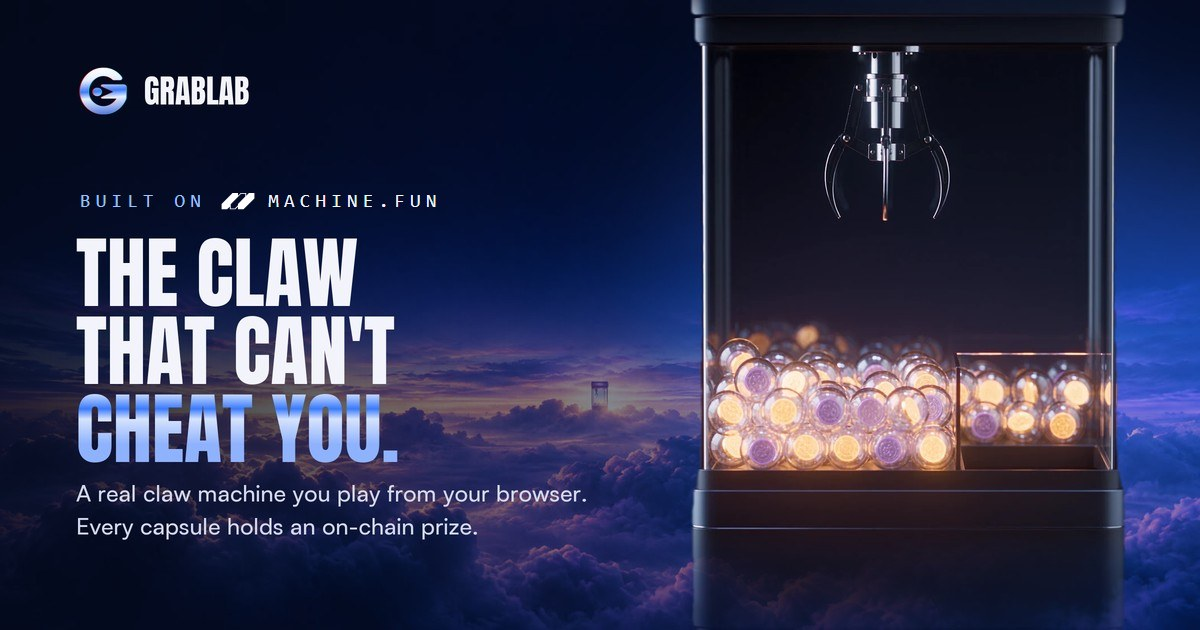
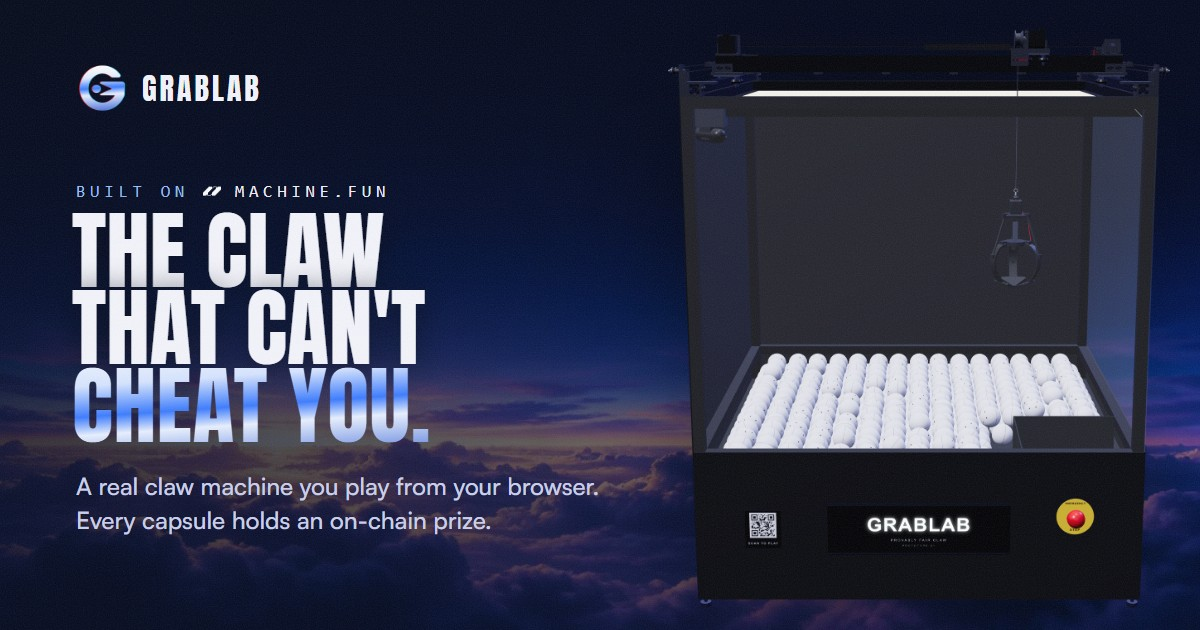
Share image: the real metal machine

diff --git a/index.html b/index.html
@@ -10,14 +10,14 @@
 <meta property="og:title" content="Grablab: the claw that can't cheat you" />
 <meta property="og:description" content="A real claw machine, played from the browser, where every capsule holds an on-chain prize and every play is proven fair on Solana. Rent the claw, load your airdrop, let people grab it live." />
 <meta property="og:url" content="https://grablab.fun/" />
-<meta property="og:image" content="https://grablab.fun/assets/og-share.jpg?v=3" />
+<meta property="og:image" content="https://grablab.fun/assets/og-share.jpg?v=4" />
 <meta property="og:image:width" content="1200" />
 <meta property="og:image:height" content="630" />
 <meta property="og:image:alt" content="Grablab, the claw that can't cheat you: a real claw machine played from the browser" />
 <meta name="twitter:card" content="summary_large_image" />
 <meta name="twitter:title" content="Grablab: the claw that can't cheat you" />
 <meta name="twitter:description" content="A real claw machine, played from the browser, where every capsule holds an on-chain prize and every play is proven fair on Solana. Rent the claw, load your airdrop, let people grab it live." />
-<meta name="twitter:image" content="https://grablab.fun/assets/og-share.jpg?v=3" />
+<meta name="twitter:image" content="https://grablab.fun/assets/og-share.jpg?v=4" />
 <link rel="icon" type="image/png" href="assets/brand/mark-chrome-256.png?v=fav2" />
 <link rel="apple-touch-icon" href="assets/brand/favicon-180.png" />
 <link rel="preload" href="assets/fonts/anton-400-latin.woff2" as="font" type="font/woff2" crossorigin />

diff --git a/provably-fair.html b/provably-fair.html
@@ -10,14 +10,14 @@
 <meta property="og:title" content="Provably fair, Grablab" />
 <meta property="og:description" content="Every Grablab play leaves a receipt on Solana: inventory, grip, signature, drop and payout. Check any play yourself." />
 <meta property="og:url" content="https://grablab.fun/provably-fair" />
-<meta property="og:image" content="https://grablab.fun/assets/og-share.jpg?v=3" />
+<meta property="og:image" content="https://grablab.fun/assets/og-share.jpg?v=4" />
 <meta property="og:image:width" content="1200" />
 <meta property="og:image:height" content="630" />
 <meta property="og:image:alt" content="Grablab, the claw that can't cheat you: a real claw machine played from the browser" />
 <meta name="twitter:card" content="summary_large_image" />
 <meta name="twitter:title" content="Provably fair, Grablab" />
 <meta name="twitter:description" content="Every Grablab play leaves a receipt on Solana: inventory, grip, signature, drop and payout. Check any play yourself." />
-<meta name="twitter:image" content="https://grablab.fun/assets/og-share.jpg?v=3" />
+<meta name="twitter:image" content="https://grablab.fun/assets/og-share.jpg?v=4" />
 <link rel="icon" type="image/png" href="assets/brand/mark-chrome-256.png?v=fav2" />
 <link rel="apple-touch-icon" href="assets/brand/favicon-180.png" />
 <link rel="preload" href="assets/fonts/anton-400-latin.woff2" as="font" type="font/woff2" crossorigin />

diff --git a/lab.html b/lab.html
@@ -10,14 +10,14 @@
 <meta property="og:title" content="Physics lab, Grablab" />
 <meta property="og:description" content="Our claw machine rebuilt in MuJoCo physics. Drive it in SimArena: move, lower, squeeze at 70%, drop it in the chute." />
 <meta property="og:url" content="https://grablab.fun/lab" />
-<meta property="og:image" content="https://grablab.fun/assets/og-share.jpg?v=3" />
+<meta property="og:image" content="https://grablab.fun/assets/og-share.jpg?v=4" />
 <meta property="og:image:width" content="1200" />
 <meta property="og:image:height" content="630" />
 <meta property="og:image:alt" content="Grablab, the claw that can't cheat you: a real claw machine played from the browser" />
 <meta name="twitter:card" content="summary_large_image" />
 <meta name="twitter:title" content="Physics lab, Grablab" />
 <meta name="twitter:description" content="Our claw machine rebuilt in MuJoCo physics. Drive it in SimArena: move, lower, squeeze at 70%, drop it in the chute." />
-<meta name="twitter:image" content="https://grablab.fun/assets/og-share.jpg?v=3" />
+<meta name="twitter:image" content="https://grablab.fun/assets/og-share.jpg?v=4" />
 <link rel="icon" type="image/png" href="assets/brand/mark-chrome-256.png?v=fav2" />
 <link rel="apple-touch-icon" href="assets/brand/favicon-180.png" />
 <link rel="preload" href="assets/fonts/anton-400-latin.woff2" as="font" type="font/woff2" crossorigin />

diff --git a/rent.html b/rent.html
@@ -10,14 +10,14 @@
 <meta property="og:title" content="Rent the claw, Grablab" />
 <meta property="og:description" content="Load your airdrop into capsules and let people grab it live on stream. Provably fair, settled on Solana." />
 <meta property="og:url" content="https://grablab.fun/rent" />
-<meta property="og:image" content="https://grablab.fun/assets/og-share.jpg?v=3" />
+<meta property="og:image" content="https://grablab.fun/assets/og-share.jpg?v=4" />
 <meta property="og:image:width" content="1200" />
 <meta property="og:image:height" content="630" />
 <meta property="og:image:alt" content="Grablab, the claw that can't cheat you: a real claw machine played from the browser" />
 <meta name="twitter:card" content="summary_large_image" />
 <meta name="twitter:title" content="Rent the claw, Grablab" />
 <meta name="twitter:description" content="Load your airdrop into capsules and let people grab it live on stream. Provably fair, settled on Solana." />
-<meta name="twitter:image" content="https://grablab.fun/assets/og-share.jpg?v=3" />
+<meta name="twitter:image" content="https://grablab.fun/assets/og-share.jpg?v=4" />
 <link rel="icon" type="image/png" href="assets/brand/mark-chrome-256.png?v=fav2" />
 <link rel="apple-touch-icon" href="assets/brand/favicon-180.png" />
 <link rel="preload" href="assets/fonts/anton-400-latin.woff2" as="font" type="font/woff2" crossorigin />

diff --git a/privacy.html b/privacy.html
@@ -10,14 +10,14 @@
 <meta property="og:title" content="Privacy policy, Grablab" />
 <meta property="og:description" content="What data grablab.fun handles, why, who else sees it, and your rights under the GDPR." />
 <meta property="og:url" content="https://grablab.fun/privacy" />
-<meta property="og:image" content="https://grablab.fun/assets/og-share.jpg?v=3" />
+<meta property="og:image" content="https://grablab.fun/assets/og-share.jpg?v=4" />
 <meta property="og:image:width" content="1200" />
 <meta property="og:image:height" content="630" />
 <meta property="og:image:alt" content="Grablab, the claw that can't cheat you: a real claw machine played from the browser" />
 <meta name="twitter:card" content="summary_large_image" />
 <meta name="twitter:title" content="Privacy policy, Grablab" />
 <meta name="twitter:description" content="What data grablab.fun handles, why, who else sees it, and your rights under the GDPR." />
-<meta name="twitter:image" content="https://grablab.fun/assets/og-share.jpg?v=3" />
+<meta name="twitter:image" content="https://grablab.fun/assets/og-share.jpg?v=4" />
 <link rel="icon" type="image/png" href="assets/brand/mark-chrome-256.png?v=fav2" />
 <link rel="apple-touch-icon" href="assets/brand/favicon-180.png" />
 <link rel="preload" href="assets/fonts/anton-400-latin.woff2" as="font" type="font/woff2" crossorigin />

diff --git a/terms.html b/terms.html
@@ -10,14 +10,14 @@
 <meta property="og:title" content="Terms of use, Grablab" />
 <meta property="og:description" content="The rules for using grablab.fun, the simulator and, once live, the Grablab claw machine." />
 <meta property="og:url" content="https://grablab.fun/terms" />
-<meta property="og:image" content="https://grablab.fun/assets/og-share.jpg?v=3" />
+<meta property="og:image" content="https://grablab.fun/assets/og-share.jpg?v=4" />
 <meta property="og:image:width" content="1200" />
 <meta property="og:image:height" content="630" />
 <meta property="og:image:alt" content="Grablab, the claw that can't cheat you: a real claw machine played from the browser" />
 <meta name="twitter:card" content="summary_large_image" />
 <meta name="twitter:title" content="Terms of use, Grablab" />
 <meta name="twitter:description" content="The rules for using grablab.fun, the simulator and, once live, the Grablab claw machine." />
-<meta name="twitter:image" content="https://grablab.fun/assets/og-share.jpg?v=3" />
+<meta name="twitter:image" content="https://grablab.fun/assets/og-share.jpg?v=4" />
 <link rel="icon" type="image/png" href="assets/brand/mark-chrome-256.png?v=fav2" />
 <link rel="apple-touch-icon" href="assets/brand/favicon-180.png" />
 <link rel="preload" href="assets/fonts/anton-400-latin.woff2" as="font" type="font/woff2" crossorigin />

diff --git a/anatomy.html b/anatomy.html
@@ -10,14 +10,14 @@
 <meta property="og:title" content="Anatomy, Grablab" />
 <meta property="og:description" content="Prototype 01, part by part. Every part of the honest claw machine, from the frame to the chip that signs each play." />
 <meta property="og:url" content="https://grablab.fun/anatomy" />
-<meta property="og:image" content="https://grablab.fun/assets/og-share.jpg?v=3" />
+<meta property="og:image" content="https://grablab.fun/assets/og-share.jpg?v=4" />
 <meta property="og:image:width" content="1200" />
 <meta property="og:image:height" content="630" />
 <meta property="og:image:alt" content="Grablab Prototype 01, part by part" />
 <meta name="twitter:card" content="summary_large_image" />
 <meta name="twitter:title" content="Anatomy, Grablab" />
 <meta name="twitter:description" content="Prototype 01, part by part. Every part of the honest claw machine, from the frame to the chip that signs each play." />
-<meta name="twitter:image" content="https://grablab.fun/assets/og-share.jpg?v=3" />
+<meta name="twitter:image" content="https://grablab.fun/assets/og-share.jpg?v=4" />
 <link rel="icon" type="image/png" href="assets/brand/mark-chrome-256.png?v=fav2" />
 <link rel="apple-touch-icon" href="assets/brand/favicon-180.png" />
 <link rel="preload" href="assets/fonts/anton-400-latin.woff2" as="font" type="font/woff2" crossorigin />

diff --git a/participate.html b/participate.html
@@ -10,14 +10,14 @@
 <meta property="og:title" content="Participate, Grablab" />
 <meta property="og:description" content="Hold the token, open the stream, drive a real claw. The prize lands in your wallet." />
 <meta property="og:url" content="https://grablab.fun/participate" />
-<meta property="og:image" content="https://grablab.fun/assets/og-share.jpg?v=3" />
+<meta property="og:image" content="https://grablab.fun/assets/og-share.jpg?v=4" />
 <meta property="og:image:width" content="1200" />
 <meta property="og:image:height" content="630" />
 <meta property="og:image:alt" content="Grablab, the claw that can't cheat you: a real claw machine played from the browser" />
 <meta name="twitter:card" content="summary_large_image" />
 <meta name="twitter:title" content="Participate, Grablab" />
 <meta name="twitter:description" content="Hold the token, open the stream, drive a real claw. The prize lands in your wallet." />
-<meta name="twitter:image" content="https://grablab.fun/assets/og-share.jpg?v=3" />
+<meta name="twitter:image" content="https://grablab.fun/assets/og-share.jpg?v=4" />
 <link rel="icon" type="image/png" href="assets/brand/mark-chrome-256.png?v=fav2" />
 <link rel="apple-touch-icon" href="assets/brand/favicon-180.png" />
 <link rel="preload" href="assets/fonts/anton-400-latin.woff2" as="font" type="font/woff2" crossorigin />

diff --git a/cookies.html b/cookies.html
@@ -10,14 +10,14 @@
 <meta property="og:title" content="Cookie policy, Grablab" />
 <meta property="og:description" content="Everything grablab.fun stores in your browser, and how to change your choice." />
 <meta property="og:url" content="https://grablab.fun/cookies" />
-<meta property="og:image" content="https://grablab.fun/assets/og-share.jpg?v=3" />
+<meta property="og:image" content="https://grablab.fun/assets/og-share.jpg?v=4" />
 <meta property="og:image:width" content="1200" />
 <meta property="og:image:height" content="630" />
 <meta property="og:image:alt" content="Grablab, the claw that can't cheat you: a real claw machine played from the browser" />
 <meta name="twitter:card" content="summary_large_image" />
 <meta name="twitter:title" content="Cookie policy, Grablab" />
 <meta name="twitter:description" content="Everything grablab.fun stores in your browser, and how to change your choice." />
-<meta name="twitter:image" content="https://grablab.fun/assets/og-share.jpg?v=3" />
+<meta name="twitter:image" content="https://grablab.fun/assets/og-share.jpg?v=4" />
 <link rel="icon" type="image/png" href="assets/brand/mark-chrome-256.png?v=fav2" />
 <link rel="apple-touch-icon" href="assets/brand/favicon-180.png" />
 <link rel="preload" href="assets/fonts/anton-400-latin.woff2" as="font" type="font/woff2" crossorigin />

diff --git a/maintenance.html b/maintenance.html
@@ -11,14 +11,14 @@
 <meta property="og:title" content="Grablab, back shortly" />
 <meta property="og:description" content="Grablab is tuning the claw. Back shortly." />
 <meta property="og:url" content="https://grablab.fun/maintenance" />
-<meta property="og:image" content="https://grablab.fun/assets/og-share.jpg?v=3" />
+<meta property="og:image" content="https://grablab.fun/assets/og-share.jpg?v=4" />
 <meta property="og:image:width" content="1200" />
 <meta property="og:image:height" content="630" />
 <meta property="og:image:alt" content="Grablab, the claw that can't cheat you: a real claw machine played from the browser" />
 <meta name="twitter:card" content="summary_large_image" />
 <meta name="twitter:title" content="Grablab, back shortly" />
 <meta name="twitter:description" content="Grablab is tuning the claw. Back shortly." />
-<meta name="twitter:image" content="https://grablab.fun/assets/og-share.jpg?v=3" />
+<meta name="twitter:image" content="https://grablab.fun/assets/og-share.jpg?v=4" />
 <link rel="icon" type="image/png" href="/assets/brand/mark-chrome-256.png?v=fav2" />
 <link rel="stylesheet" href="/assets/fonts/fonts.css?v=1" />
 <style>
